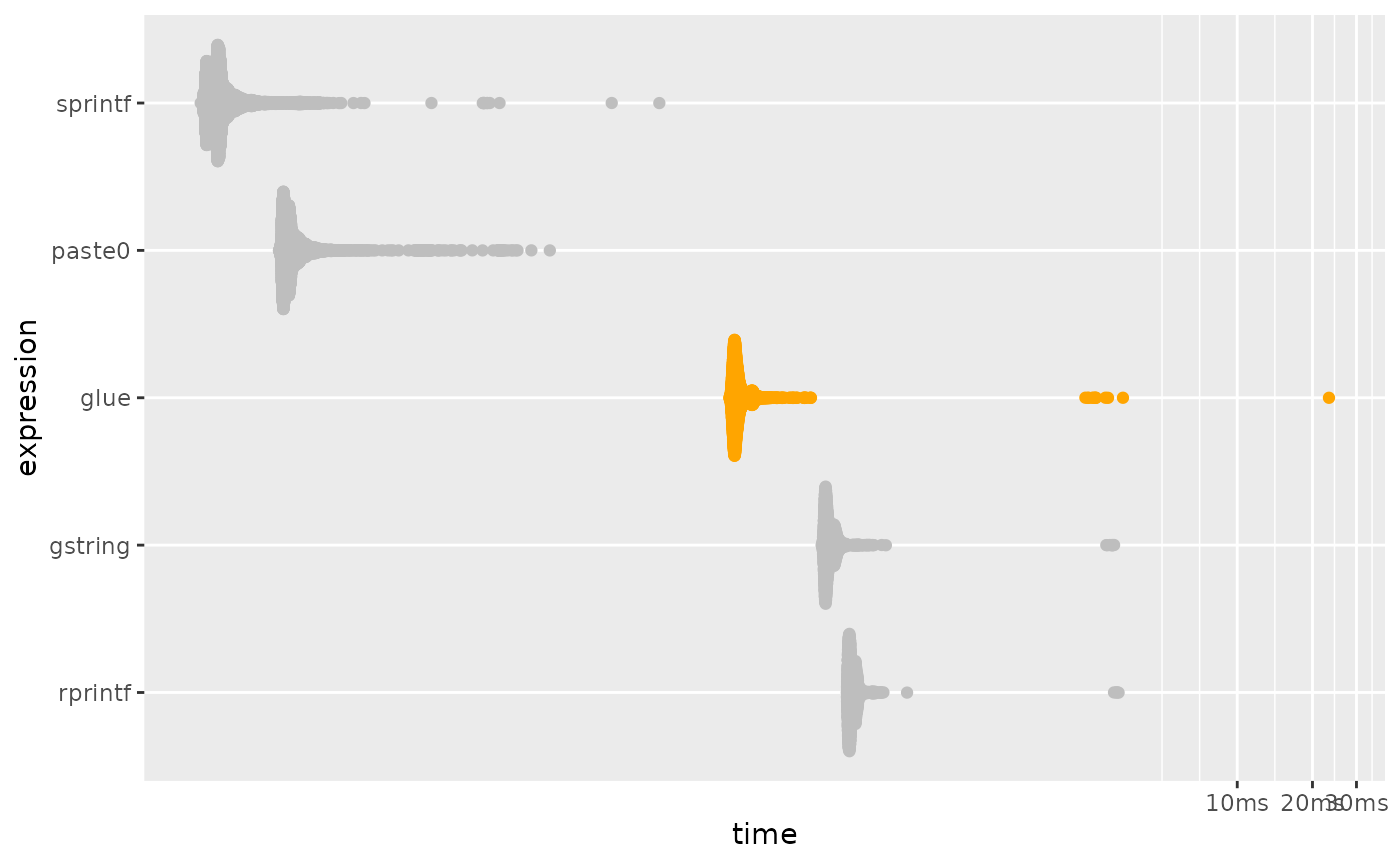
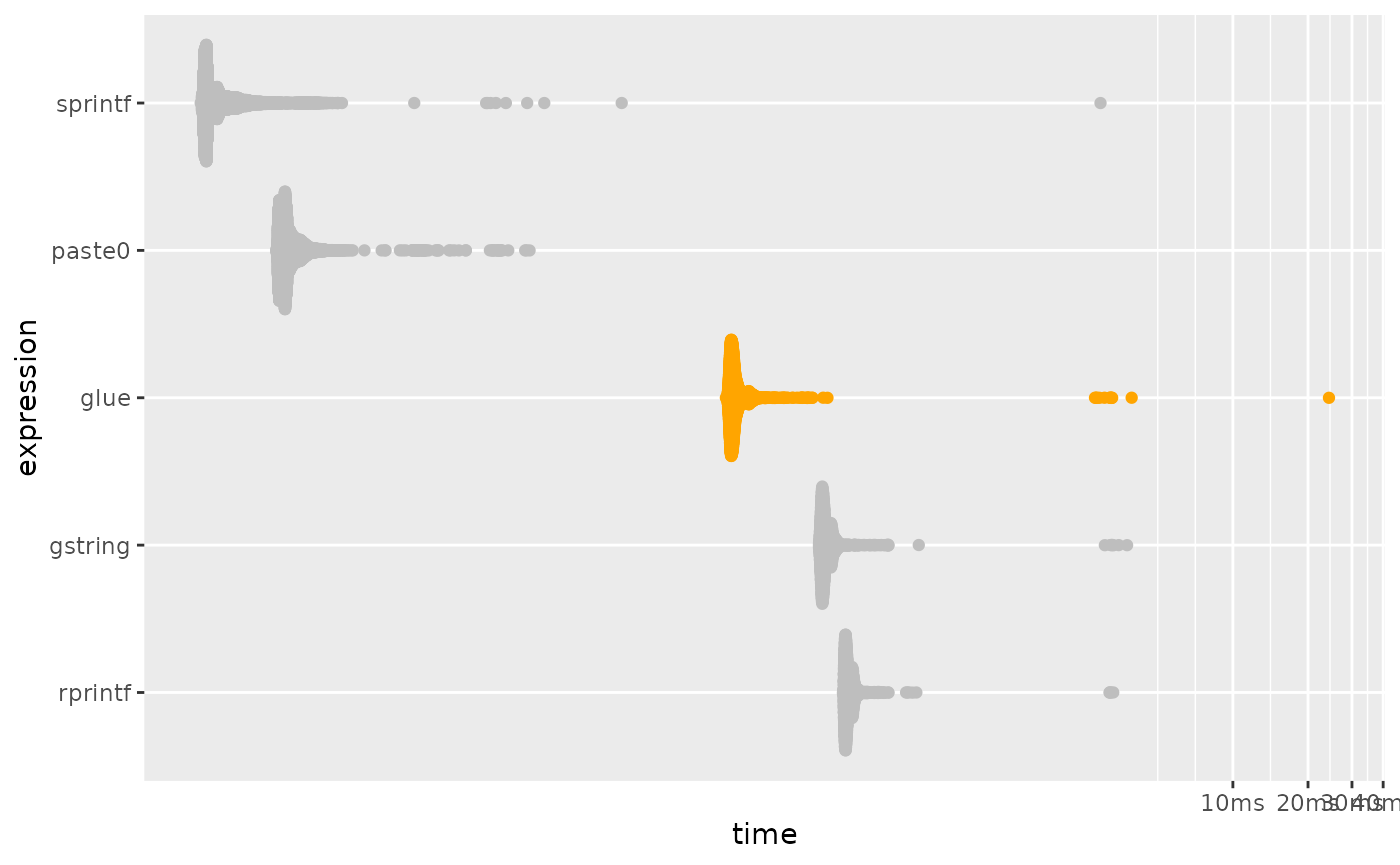
Deploying to gh-pages from @ tidyverse/glue@abeca0dec8b3be72adf5f25ac0e932f1906802bc 🚀

diff --git a/dev/articles/speed.html b/dev/articles/speed.html
@@ -36,7 +36,7 @@
 
     <a class="navbar-brand me-2" href="../index.html">glue</a>
 
-    <small class="nav-text text-danger me-auto" data-bs-toggle="tooltip" data-bs-placement="bottom" title="In-development version">1.7.0.9000</small>
+    <small class="nav-text text-danger me-auto" data-bs-toggle="tooltip" data-bs-placement="bottom" title="In-development version">1.8.0.9000</small>
 
 
     <button class="navbar-toggler" type="button" data-bs-toggle="collapse" data-bs-target="#navbar" aria-controls="navbar" aria-expanded="false" aria-label="Toggle navigation">
@@ -154,11 +154,11 @@ this benchmark, but is now formally marked as “superseded”, in favor of
 <span><span class="co">#&gt; <span style="color: #949494;"># A tibble: 5 × 6</span></span></span>
 <span><span class="co">#&gt;   expression      min   median `itr/sec` mem_alloc `gc/sec`</span></span>
 <span><span class="co">#&gt;   <span style="color: #949494; font-style: italic;">&lt;bch:expr&gt;</span> <span style="color: #949494; font-style: italic;">&lt;bch:tm&gt;</span> <span style="color: #949494; font-style: italic;">&lt;bch:tm&gt;</span>     <span style="color: #949494; font-style: italic;">&lt;dbl&gt;</span> <span style="color: #949494; font-style: italic;">&lt;bch:byt&gt;</span>    <span style="color: #949494; font-style: italic;">&lt;dbl&gt;</span></span></span>
-<span><span class="co">#&gt; <span style="color: #BCBCBC;">1</span> sprintf    711.07ns    842ns  1<span style="text-decoration: underline;">094</span>887.        0B   109.  </span></span>
-<span><span class="co">#&gt; <span style="color: #BCBCBC;">2</span> paste0       1.46µs    1.6µs   <span style="text-decoration: underline;">585</span>835.        0B     0   </span></span>
-<span><span class="co">#&gt; <span style="color: #BCBCBC;">3</span> glue        92.72µs   98.7µs     <span style="text-decoration: underline;">9</span>821.  141.72KB    26.9 </span></span>
-<span><span class="co">#&gt; <span style="color: #BCBCBC;">4</span> gstring    217.19µs    230µs     <span style="text-decoration: underline;">4</span>249.    2.45MB    14.6 </span></span>
-<span><span class="co">#&gt; <span style="color: #BCBCBC;">5</span> rprintf    273.87µs    284µs     <span style="text-decoration: underline;">3</span>458.  503.39KB     8.21</span></span>
+<span><span class="co">#&gt; <span style="color: #BCBCBC;">1</span> sprintf    732.02ns    812ns  1<span style="text-decoration: underline;">101</span>413.        0B   110.  </span></span>
+<span><span class="co">#&gt; <span style="color: #BCBCBC;">2</span> paste0       1.47µs    1.6µs   <span style="text-decoration: underline;">588</span>270.        0B     0   </span></span>
+<span><span class="co">#&gt; <span style="color: #BCBCBC;">3</span> glue        93.04µs   99.4µs     <span style="text-decoration: underline;">9</span>758.  141.71KB    27.1 </span></span>
+<span><span class="co">#&gt; <span style="color: #BCBCBC;">4</span> gstring    219.62µs  230.8µs     <span style="text-decoration: underline;">4</span>219.    2.45MB    14.7 </span></span>
+<span><span class="co">#&gt; <span style="color: #BCBCBC;">5</span> rprintf    273.96µs  284.8µs     <span style="text-decoration: underline;">3</span>435.  503.39KB     8.21</span></span>
 <span></span>
 <span><span class="co"># plotting function defined in a hidden chunk</span></span>
 <span><span class="fu">plot_comparison</span><span class="op">(</span><span class="va">simple</span><span class="op">)</span></span>
@@ -207,11 +207,11 @@ performance is much closer to that of <code><a href="https://rdrr.io/r/base/past
 <span><span class="co">#&gt; <span style="color: #949494;"># A tibble: 5 × 6</span></span></span>
 <span><span class="co">#&gt;   expression      min   median `itr/sec` mem_alloc `gc/sec`</span></span>
 <span><span class="co">#&gt;   <span style="color: #949494; font-style: italic;">&lt;bch:expr&gt;</span> <span style="color: #949494; font-style: italic;">&lt;bch:tm&gt;</span> <span style="color: #949494; font-style: italic;">&lt;bch:tm&gt;</span>     <span style="color: #949494; font-style: italic;">&lt;dbl&gt;</span> <span style="color: #949494; font-style: italic;">&lt;bch:byt&gt;</span>    <span style="color: #949494; font-style: italic;">&lt;dbl&gt;</span></span></span>
-<span><span class="co">#&gt; <span style="color: #BCBCBC;">1</span> paste0       8.22ms   8.36ms     119.    781.3KB     2.02</span></span>
-<span><span class="co">#&gt; <span style="color: #BCBCBC;">2</span> sprintf      8.99ms   9.19ms     109.    781.3KB     4.19</span></span>
-<span><span class="co">#&gt; <span style="color: #BCBCBC;">3</span> gstring     11.07ms  11.15ms      89.6    1.53MB    11.8 </span></span>
-<span><span class="co">#&gt; <span style="color: #BCBCBC;">4</span> glue        11.39ms  11.48ms      86.7    2.29MB    11.7 </span></span>
-<span><span class="co">#&gt; <span style="color: #BCBCBC;">5</span> rprintf     27.48ms  27.78ms      35.5    3.05MB     4.44</span></span>
+<span><span class="co">#&gt; <span style="color: #BCBCBC;">1</span> paste0       8.22ms   8.24ms     121.    781.3KB     4.18</span></span>
+<span><span class="co">#&gt; <span style="color: #BCBCBC;">2</span> sprintf       9.1ms   9.16ms     109.    781.3KB     4.20</span></span>
+<span><span class="co">#&gt; <span style="color: #BCBCBC;">3</span> gstring     11.16ms  11.25ms      87.2    1.53MB     6.54</span></span>
+<span><span class="co">#&gt; <span style="color: #BCBCBC;">4</span> glue        11.41ms  11.93ms      83.3    2.29MB     9.01</span></span>
+<span><span class="co">#&gt; <span style="color: #BCBCBC;">5</span> rprintf     27.69ms  27.82ms      35.9    3.05MB    10.3</span></span>
 <span></span>
 <span><span class="co"># plotting function defined in a hidden chunk</span></span>
 <span><span class="fu">plot_comparison</span><span class="op">(</span><span class="va">vectorized</span><span class="op">)</span></span></code></pre></div>

diff --git a/dev/news/index.html b/dev/news/index.html
@@ -13,7 +13,7 @@
 
     <a class="navbar-brand me-2" href="../index.html">glue</a>
 
-    <small class="nav-text text-danger me-auto" data-bs-toggle="tooltip" data-bs-placement="bottom" title="In-development version">1.7.0.9000</small>
+    <small class="nav-text text-danger me-auto" data-bs-toggle="tooltip" data-bs-placement="bottom" title="In-development version">1.8.0.9000</small>
 
 
     <button class="navbar-toggler" type="button" data-bs-toggle="collapse" data-bs-target="#navbar" aria-controls="navbar" aria-expanded="false" aria-label="Toggle navigation">
@@ -53,6 +53,9 @@
 
     <div class="section level2">
 <h2 class="pkg-version" data-toc-text="development version" id="glue-development-version">glue (development version)<a class="anchor" aria-label="anchor" href="#glue-development-version"></a></h2>
+</div>
+    <div class="section level2">
+<h2 class="pkg-version" data-toc-text="1.8.0" id="glue-180">glue 1.8.0<a class="anchor" aria-label="anchor" href="#glue-180"></a></h2><p class="text-muted">CRAN release: 2024-09-30</p>
 <ul><li>
 <p>glue has a two new articles:</p>
 <ul><li>“Get started”, with contributions from <a href="https://github.com/stephhazlitt" class="external-link">@stephhazlitt</a> and <a href="https://github.com/BrennanAntone" class="external-link">@BrennanAntone</a> (<a href="https://github.com/tidyverse/glue/issues/137" class="external-link">#137</a>, <a href="https://github.com/tidyverse/glue/issues/170" class="external-link">#170</a>, <a href="https://github.com/tidyverse/glue/issues/332" class="external-link">#332</a>).</li>

diff --git a/dev/authors.html b/dev/authors.html
@@ -13,7 +13,7 @@
 
     <a class="navbar-brand me-2" href="index.html">glue</a>
 
-    <small class="nav-text text-danger me-auto" data-bs-toggle="tooltip" data-bs-placement="bottom" title="In-development version">1.7.0.9000</small>
+    <small class="nav-text text-danger me-auto" data-bs-toggle="tooltip" data-bs-placement="bottom" title="In-development version">1.8.0.9000</small>
 
 
     <button class="navbar-toggler" type="button" data-bs-toggle="collapse" data-bs-target="#navbar" aria-controls="navbar" aria-expanded="false" aria-label="Toggle navigation">
@@ -73,13 +73,13 @@
 
       <p>Hester J, Bryan J (2024).
 <em>glue: Interpreted String Literals</em>.
-R package version 1.7.0.9000, https://github.com/tidyverse/glue, <a href="https://glue.tidyverse.org/">https://glue.tidyverse.org/</a>.
+R package version 1.8.0.9000, https://github.com/tidyverse/glue, <a href="https://glue.tidyverse.org/">https://glue.tidyverse.org/</a>.
 </p>
       <pre>@Manual{,
   title = {glue: Interpreted String Literals},
   author = {Jim Hester and Jennifer Bryan},
   year = {2024},
-  note = {R package version 1.7.0.9000, https://github.com/tidyverse/glue},
+  note = {R package version 1.8.0.9000, https://github.com/tidyverse/glue},
   url = {https://glue.tidyverse.org/},
 }</pre>
     </div>

diff --git a/dev/reference/as_glue.html b/dev/reference/as_glue.html
@@ -19,7 +19,7 @@ the addition operator.'><meta property="og:image" content="https://glue.tidyvers
 
     <a class="navbar-brand me-2" href="../index.html">glue</a>
 
-    <small class="nav-text text-danger me-auto" data-bs-toggle="tooltip" data-bs-placement="bottom" title="In-development version">1.7.0.9000</small>
+    <small class="nav-text text-danger me-auto" data-bs-toggle="tooltip" data-bs-placement="bottom" title="In-development version">1.8.0.9000</small>
 
 
     <button class="navbar-toggler" type="button" data-bs-toggle="collapse" data-bs-target="#navbar" aria-controls="navbar" aria-expanded="false" aria-label="Toggle navigation">

diff --git a/dev/reference/glue-package.html b/dev/reference/glue-package.html
@@ -15,7 +15,7 @@ An implementation of interpreted string literals, inspired by Python's Literal S
 
     <a class="navbar-brand me-2" href="../index.html">glue</a>
 
-    <small class="nav-text text-danger me-auto" data-bs-toggle="tooltip" data-bs-placement="bottom" title="In-development version">1.7.0.9000</small>
+    <small class="nav-text text-danger me-auto" data-bs-toggle="tooltip" data-bs-placement="bottom" title="In-development version">1.8.0.9000</small>
 
 
     <button class="navbar-toggler" type="button" data-bs-toggle="collapse" data-bs-target="#navbar" aria-controls="navbar" aria-expanded="false" aria-label="Toggle navigation">

diff --git a/dev/reference/glue.html b/dev/reference/glue.html
@@ -17,7 +17,7 @@ from the first and last lines are automatically trimmed."><meta property="og:ima
 
     <a class="navbar-brand me-2" href="../index.html">glue</a>
 
-    <small class="nav-text text-danger me-auto" data-bs-toggle="tooltip" data-bs-placement="bottom" title="In-development version">1.7.0.9000</small>
+    <small class="nav-text text-danger me-auto" data-bs-toggle="tooltip" data-bs-placement="bottom" title="In-development version">1.8.0.9000</small>
 
 
     <button class="navbar-toggler" type="button" data-bs-toggle="collapse" data-bs-target="#navbar" aria-controls="navbar" aria-expanded="false" aria-label="Toggle navigation">

diff --git a/dev/reference/glue_col.html b/dev/reference/glue_col.html
@@ -35,7 +35,7 @@ character, specify .literal = TRUE."><meta property="og:image" content="https://
 
     <a class="navbar-brand me-2" href="../index.html">glue</a>
 
-    <small class="nav-text text-danger me-auto" data-bs-toggle="tooltip" data-bs-placement="bottom" title="In-development version">1.7.0.9000</small>
+    <small class="nav-text text-danger me-auto" data-bs-toggle="tooltip" data-bs-placement="bottom" title="In-development version">1.8.0.9000</small>
 
 
     <button class="navbar-toggler" type="button" data-bs-toggle="collapse" data-bs-target="#navbar" aria-controls="navbar" aria-expanded="false" aria-label="Toggle navigation">

diff --git a/dev/reference/glue_collapse.html b/dev/reference/glue_collapse.html
@@ -17,7 +17,7 @@ object rather than a glue object."><meta property="og:image" content="https://gl
 
     <a class="navbar-brand me-2" href="../index.html">glue</a>
 
-    <small class="nav-text text-danger me-auto" data-bs-toggle="tooltip" data-bs-placement="bottom" title="In-development version">1.7.0.9000</small>
+    <small class="nav-text text-danger me-auto" data-bs-toggle="tooltip" data-bs-placement="bottom" title="In-development version">1.8.0.9000</small>
 
 
     <button class="navbar-toggler" type="button" data-bs-toggle="collapse" data-bs-target="#navbar" aria-controls="navbar" aria-expanded="false" aria-label="Toggle navigation">

diff --git a/dev/reference/glue_safe.html b/dev/reference/glue_safe.html
@@ -21,7 +21,7 @@ normal functions would allow an attacker to execute arbitrary code."><meta prope
 
     <a class="navbar-brand me-2" href="../index.html">glue</a>
 
-    <small class="nav-text text-danger me-auto" data-bs-toggle="tooltip" data-bs-placement="bottom" title="In-development version">1.7.0.9000</small>
+    <small class="nav-text text-danger me-auto" data-bs-toggle="tooltip" data-bs-placement="bottom" title="In-development version">1.8.0.9000</small>
 
 
     <button class="navbar-toggler" type="button" data-bs-toggle="collapse" data-bs-target="#navbar" aria-controls="navbar" aria-expanded="false" aria-label="Toggle navigation">

diff --git a/dev/reference/glue_sql.html b/dev/reference/glue_sql.html
@@ -47,7 +47,7 @@ SQL IN Operator."><meta property="og:image" content="https://glue.tidyverse.org/
 
     <a class="navbar-brand me-2" href="../index.html">glue</a>
 
-    <small class="nav-text text-danger me-auto" data-bs-toggle="tooltip" data-bs-placement="bottom" title="In-development version">1.7.0.9000</small>
+    <small class="nav-text text-danger me-auto" data-bs-toggle="tooltip" data-bs-placement="bottom" title="In-development version">1.8.0.9000</small>
 
 
     <button class="navbar-toggler" type="button" data-bs-toggle="collapse" data-bs-target="#navbar" aria-controls="navbar" aria-expanded="false" aria-label="Toggle navigation">

diff --git a/dev/reference/identity_transformer.html b/dev/reference/identity_transformer.html
@@ -15,7 +15,7 @@ transformer."><meta property="og:image" content="https://glue.tidyverse.org/logo
 
     <a class="navbar-brand me-2" href="../index.html">glue</a>
 
-    <small class="nav-text text-danger me-auto" data-bs-toggle="tooltip" data-bs-placement="bottom" title="In-development version">1.7.0.9000</small>
+    <small class="nav-text text-danger me-auto" data-bs-toggle="tooltip" data-bs-placement="bottom" title="In-development version">1.8.0.9000</small>
 
 
     <button class="navbar-toggler" type="button" data-bs-toggle="collapse" data-bs-target="#navbar" aria-controls="navbar" aria-expanded="false" aria-label="Toggle navigation">

diff --git a/dev/reference/quoting.html b/dev/reference/quoting.html
@@ -17,7 +17,7 @@ base::encodeString()."><meta property="og:image" content="https://glue.tidyverse
 
     <a class="navbar-brand me-2" href="../index.html">glue</a>
 
-    <small class="nav-text text-danger me-auto" data-bs-toggle="tooltip" data-bs-placement="bottom" title="In-development version">1.7.0.9000</small>
+    <small class="nav-text text-danger me-auto" data-bs-toggle="tooltip" data-bs-placement="bottom" title="In-development version">1.8.0.9000</small>
 
 
     <button class="navbar-toggler" type="button" data-bs-toggle="collapse" data-bs-target="#navbar" aria-controls="navbar" aria-expanded="false" aria-label="Toggle navigation">
